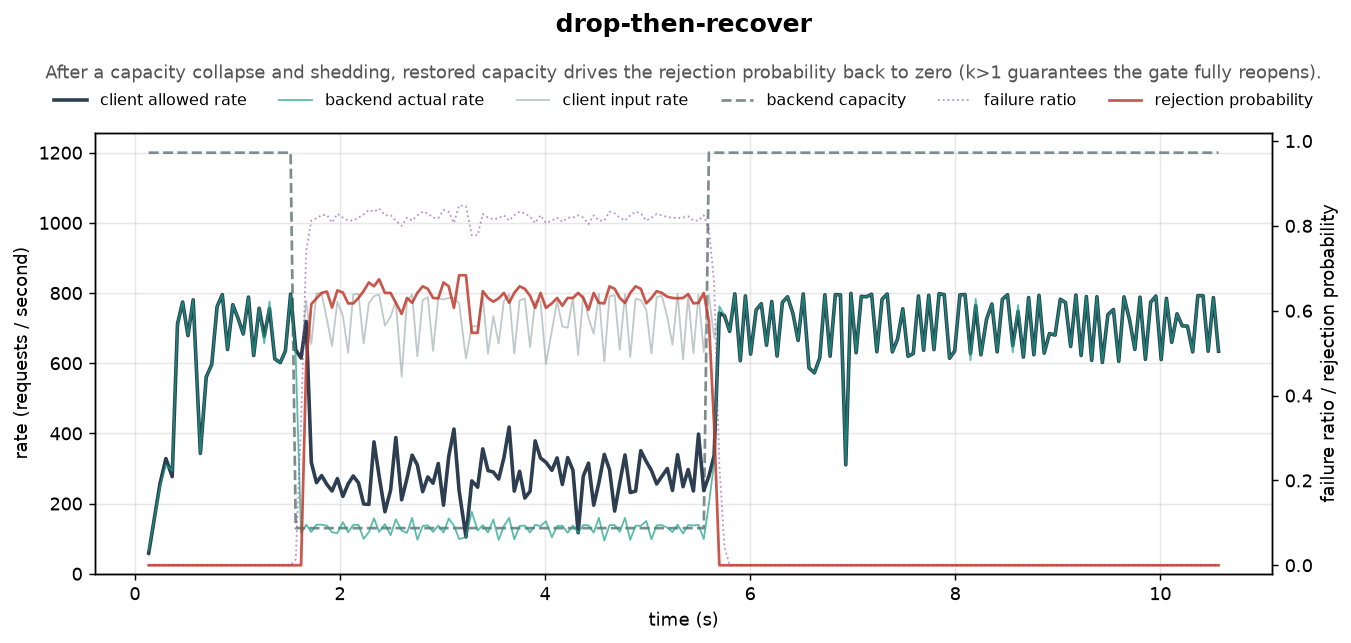
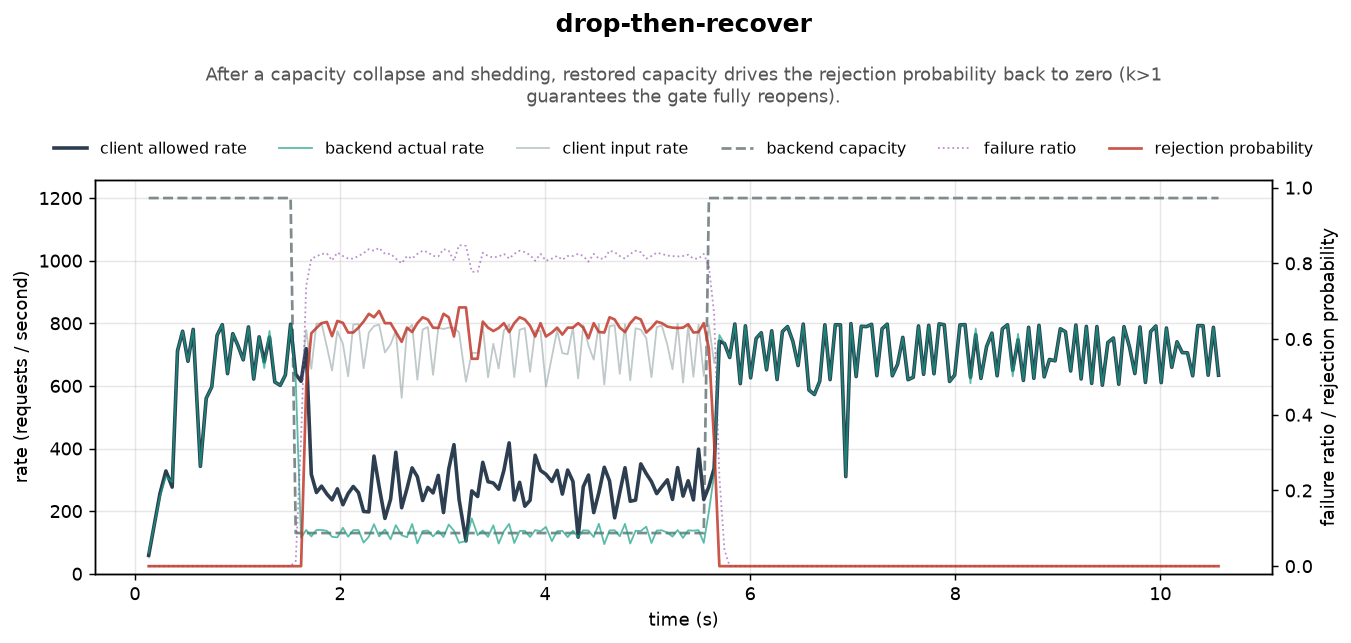
Cleaner charts

diff --git a/charts/scripts/render_admission.py b/charts/scripts/render_admission.py
@@ -12,6 +12,7 @@ the Scala side requires no changes here.
 
 import argparse
 import csv
+import textwrap
 from pathlib import Path
 
 import matplotlib
@@ -40,6 +41,20 @@ def load_samples(path):
         rejection.append(float(row["rejection_probability"]))
         failure.append(float(row["failure_ratio"]))
     return elapsed, offered, admitted, accepted, capacity, rejection, failure
+
+
+def wrap_to_axes(ax, text, fontsize):
+    """Wrap text so its rendered width matches the axes width (not the full figure)."""
+    fig = ax.figure
+    fig.canvas.draw()  # realize a renderer so we can measure text/axes extents
+    renderer = fig.canvas.get_renderer()
+    axes_width = ax.get_window_extent(renderer=renderer).width
+    sample = "the quick brown fox jumps over the lazy dog"
+    probe = ax.text(0.0, 0.0, sample, fontsize=fontsize, transform=ax.transAxes)
+    char_width = probe.get_window_extent(renderer=renderer).width / len(sample)
+    probe.remove()
+    max_chars = max(20, int(axes_width / char_width))
+    return textwrap.fill(text, width=max_chars)
 
 
 def render_scenario(entry, data_dir, out_dir):
@@ -87,7 +102,10 @@ def render_scenario(entry, data_dir, out_dir):
     )
 
     fig.suptitle(entry["scenario"], fontsize=14, fontweight="bold")
-    ax_rate.set_title(entry["description"], fontsize=10, color="#555555", pad=30)
+    description = wrap_to_axes(ax_rate, entry["description"], fontsize=10)
+    # Lift the title clear of the legend row, with extra room per wrapped line.
+    title_pad = 30 + 13 * description.count("\n")
+    ax_rate.set_title(description, fontsize=10, color="#555555", pad=title_pad)
     fig.tight_layout()
 
     out_path = out_dir / f"{entry['scenario']}.png"
